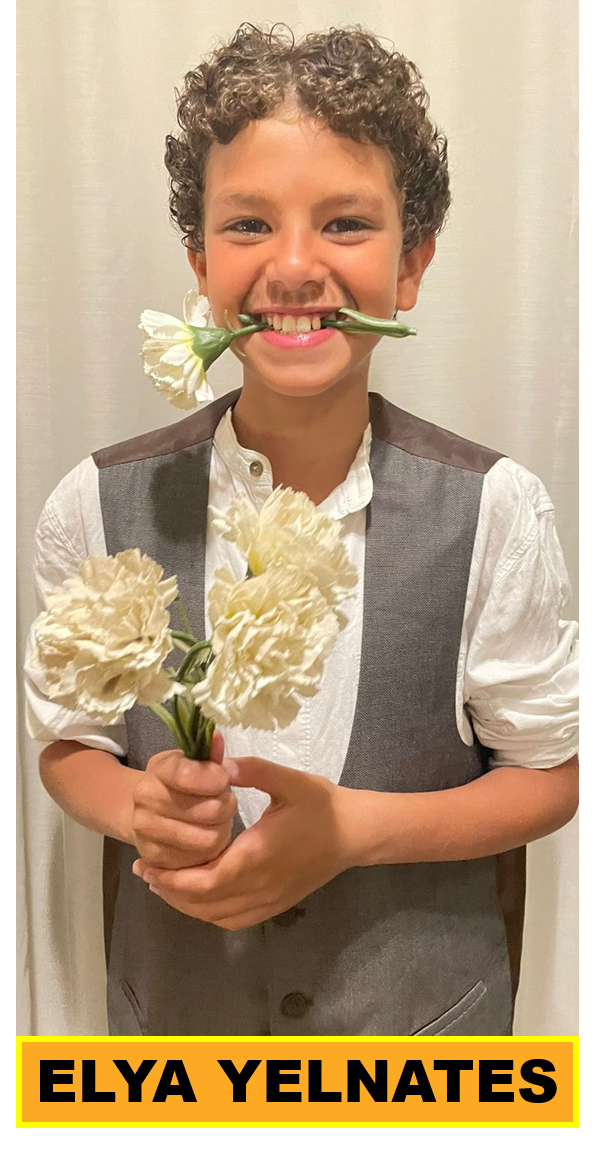
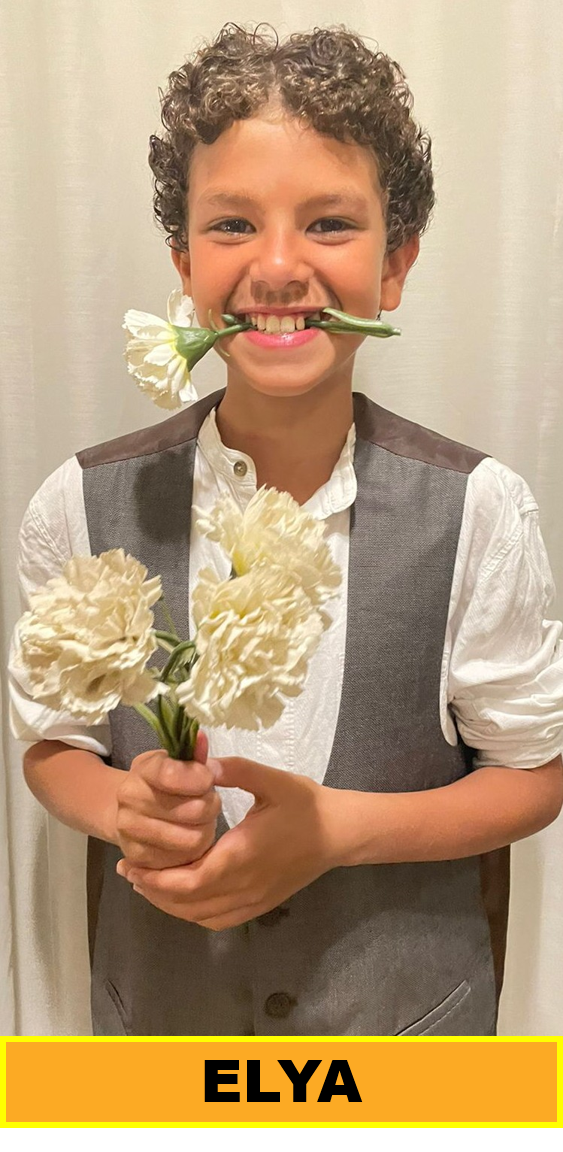
Updating stuff

diff --git a/Casting.html b/Casting.html
@@ -29,30 +29,77 @@
       <a href="Bloopers.html">Bloopers</a>
     </div>
     <h1>Casting</h1>
+    <br /><br />
     <div class="container">
-      <div class="content">
-        <img style="margin-left: 10px" src="Images/Buster.png" width="350" />
-        <img
-          style="margin-left: 200px; margin-right: 200px; margin-top: 10px"
-          src="Images/Celine.png"
-          width="355"
-        />
-        <img src="Images/Elya.png" width="380" /> <br /><br />
-        <img src="Images/Magnet.png" />
-        <img src="Images/Mirna.png" width="600" />
-        <img src="Images/Officer.png" /> <br /><br />
-        <img src="Images/Oliver.png" />
+      <div class="box">
+        <img src="Images/Celine.png" />
+        <span>Celine</span>
+      </div>
+      <div class="box">
+        <img src="Images/Mirna.png" />
+        <span>Mirna</span>
+      </div>
+      <div class="box">
+        <img src="Images/Stanley.png" />
+        <span>Hania</span>
+      </div>
+      <div class="box">
+        <img src="Images/Zero.png" />
+        <span>Lily</span>
+      </div>
+    </div>
+    <div class="container">
+      <div class="box">
+        <img src="Images/X-Ray.png" />
+        <span>Adam F.</span>
+      </div>
+      <div class="box">
+        <img src="Images/Twitch.png" />
+        <span>Mohanad</span>
+      </div>
+      <div class="box">
+        <img src="Images/Buster.png" />
+        <span>Adnan</span>
+      </div>
+      <div class="box">
         <img src="Images/Squid.png" />
-        <img src="Images/Stanley.png" /> <br /><br />
-        <img src="Images/Twitch.png" width="500" />
-        <img src="Images/Warden.png" width="500" />
-        <img src="Images/X-Ray.png" /> <br /><br />
+        <span>Zein</span>
+      </div>
+    </div>
+    <div class="container">
+      <div class="box">
+        <img src="Images/Magnet.png" />
+        <span>Jannah</span>
+      </div>
+      <div class="box">
+        <img src="Images/Elya.png" />
+        <span>Yehia A.</span>
+      </div>
+      <div class="box">
+        <img src="Images/Warden.png" />
+        <span>Malak</span>
+      </div>
+      <div class="box">
+        <img src="Images/Oliver.png" />
+        <span>Rola</span>
+      </div>
+    </div>
+    <div class="container">
+      <div class="box">
         <img src="Images/Zeina.png" />
-        <img
-          style="margin-right: 70px; margin-left: 70px"
-          src="Images/Zero.png"
-        />
+        <span>Zeina</span>
+      </div>
+      <div class="box">
         <img src="Images/Mr Sir.png" />
+        <span>Samet</span>
+      </div>
+      <div class="box">
+        <img src="Images/Judge.png" />
+        <span>Adam S.</span>
+      </div>
+      <div class="box">
+        <img src="Images/Officer.png" />
+        <span>Mariam</span>
       </div>
     </div>
   </body>

diff --git a/Styles/Casting.css b/Styles/Casting.css
@@ -28,8 +28,6 @@ body {
 }
 .navbar {
   overflow: hidden;
-  margin-right: 50px;
-  margin-left: 50px;
   border-radius: 10px;
   font-family: "Courier New", Courier, monospace;
   font-weight: bold;
@@ -99,7 +97,7 @@ body {
   display: block;
 }
 h1 {
-  margin-top: 10px;
+  margin-top: 40px;
   text-align: center;
   font-family: "Courier New", Courier, monospace;
   text-decoration: underline;
@@ -107,6 +105,44 @@ h1 {
   font-weight: bold;
 }
 .container {
-  align-items: center;
-  justify-content: center;
+  display: flex;
+  width: 100%;
+  padding: 4% 2%;
+  box-sizing: border-box;
+  height: 150vh;
+}
+
+.box {
+  flex: 1;
+  overflow: hidden;
+  transition: 0.5s;
+  margin: 0 2%;
+  box-shadow: 0 20px 30px rgba(0, 0, 0, 0.1);
+  line-height: 0;
+}
+
+.box > img {
+  width: 80%;
+  height: calc(100% - 10vh);
+  object-fit: cover;
+  padding-left: 20px;
+  padding-bottom: 0;
+  margin-bottom: 0;
+  transition: 0.5s;
+}
+
+.box > span {
+  font-size: 3.8vh;
+  display: block;
+  text-align: center;
+  height: 10vh;
+  line-height: 2.6;
+}
+
+.box:hover {
+  flex: 1 1 15%;
+}
+.box:hover > img {
+  width: 90%;
+  height: 90%;
 }
